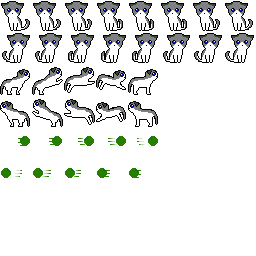
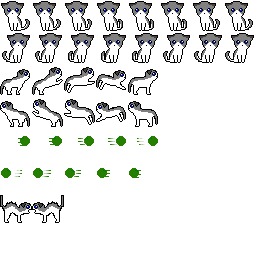
gave cat an attack animation. added 3rd level but need camera to scroll vertically now

Changed region(s): [[0.0, 0.75, 0.25, 0.875]]

diff --git a/videoGame/src/com/biggfoot/objects/Player.java b/videoGame/src/com/biggfoot/objects/Player.java
@@ -30,6 +30,7 @@ public class Player extends GameObject{
 	
 	private Animation playerWalk, playerWalkLeft;	//WALKING
 	private Animation playerIdleRight, playerIdleLeft;	//IDLE
+	private Animation playerHairballRight,playerHairballLeft;
 	//private Animation playerJumpRight, playerJumpLeft; //Jumping
 	
 	
@@ -43,7 +44,8 @@ public class Player extends GameObject{
 		
 		playerIdleRight = new Animation(5, tex.player[8], tex.player[9], tex.player[10], tex.player[11], tex.player[12], tex.player[13], tex.player[14], tex.player[15] );
 		playerIdleLeft = new Animation(5, tex.player[0], tex.player[1], tex.player[2], tex.player[3], tex.player[4], tex.player[5], tex.player[6], tex.player[7]);
-		
+		playerHairballRight = new Animation(5, tex.Cathairball[0]);
+		playerHairballLeft = new Animation(5, tex.Cathairball[1]);
 		//playerJumpRight = new Animation(10, tex.player_jump[0], tex.player_jump[1], tex.player_jump[2], tex.player_jump[3], tex.player_jump[4], tex.player_jump[5], tex.player_jump[6], tex.player_jump[7]);
 		//playerJumpLeft = new Animation(10, tex.player_jump[9], tex.player_jump[10], tex.player_jump[11], tex.player_jump[12], tex.player_jump[13], tex.player_jump[14], tex.player_jump[15]);
 	}
@@ -73,6 +75,9 @@ public class Player extends GameObject{
 		playerIdleRight.runAnimation(); //IDLE
 		playerIdleLeft.runAnimation(); //IDLE
 		
+		playerHairballLeft.runAnimation(); //attacking
+		playerHairballRight.runAnimation(); //attacking
+		
 		//playerJumpRight.runAnimation(); //Jumping
 		//playerJumpLeft.runAnimation(); //Jumping
 
@@ -88,6 +93,7 @@ public class Player extends GameObject{
 					if(getBoundsTop().intersects(tempObject.getBounds())) {	
 						y = tempObject.getY() + 32;	//top of collition needs to be ~ half the dimensions of the block
 						velY = 0;
+						attacking = false;
 					}
 				
 				//BOTTOM
@@ -113,11 +119,13 @@ public class Player extends GameObject{
 				}else if(tempObject.getId() == ObjectId.Flag) {								//****when flag get touched, next level
 					//switch levels
 					if(getBounds().intersects(tempObject.getBounds())) {
+					attacking = false;
 					handler.switchLevel();
 					}
 				}else if (tempObject.getId() == ObjectId.EvilHands) {
 					//reset level
 					if(getBounds().intersects(tempObject.getBounds())) {
+					attacking = false;
 					handler.restartLevel();
 					}
 				}
@@ -130,6 +138,15 @@ public class Player extends GameObject{
 
 	public void render(Graphics g) {	//render out a blue square with dimension above
 		g.setColor(Color.blue);
+		
+		//Attacking
+		if(attacking) {
+			if(facing == 1)
+				g.drawImage(tex.Cathairball[0],  (int)x,  (int)y,  50,  50,  null); //jump right
+			else if(facing == -1)
+				g.drawImage(tex.Cathairball[1],  (int)x,  (int)y,  50,  50,  null);	//jump left
+			
+		}else {
 		
 		//JUMPING
 		if(jumping) {
@@ -152,6 +169,7 @@ public class Player extends GameObject{
 				else if( facing == -1)
 					playerIdleLeft.drawAnimation(g,  (int)x,  (int)y, 50, 50);	//walking left	//standing left
 			}
+		}
 		}
 		
 		// g.fillRect((int)x, (int)y, (int)width, (int)height);  // this was for when the player was a rectange

diff --git a/videoGame/src/com/biggfoot/framework/Texture.java b/videoGame/src/com/biggfoot/framework/Texture.java
@@ -16,9 +16,11 @@ public class Texture {
 	public BufferedImage[] block = new BufferedImage[2]; //grass and dirt for now
 	public BufferedImage[] player = new BufferedImage[16]; //for player walking images
 	public BufferedImage[] player_jump = new BufferedImage[10]; //for player jumping
-	public BufferedImage[] flag = new BufferedImage[1]; //for player jumping
+	public BufferedImage[] flag = new BufferedImage[1]; //for end of level objective
 	public BufferedImage[] hairball = new BufferedImage[10]; //for player projectile
 	public BufferedImage[] hand_grab = new BufferedImage[5]; //for player projectile
+	public BufferedImage[] Cathairball = new BufferedImage[2]; //for player hairball
+
 	
 	public Texture() {
 		
@@ -94,13 +96,17 @@ public class Texture {
 		hairball[3] = ps.grabImage(4,5,32,32);
 		hairball[4] = ps.grabImage(5,5,32,32);
 		
-		
 		//HairBall Left
 		hairball[5] = ps.grabImage(1,6,32,32);
 		hairball[6] = ps.grabImage(2,6,32,32);
 		hairball[7] = ps.grabImage(3,6,32,32);
 		hairball[8] = ps.grabImage(4,6,32,32);
 		hairball[9] = ps.grabImage(5,6,32,32);
+
+		//CatHairBall Right
+		Cathairball[0] = ps.grabImage(1,7,32,32);
+		//CatHairBall Left
+		Cathairball[1] = ps.grabImage(2,7,32,32);
 
 		
 

diff --git a/videoGame/src/com/biggfoot/window/Handler.java b/videoGame/src/com/biggfoot/window/Handler.java
@@ -22,13 +22,15 @@ public class Handler {
 	
 	private BufferedImage level1 = null;
 	private BufferedImage level2 = null;
+	private BufferedImage level3 = null;
 	
 	public Handler(Camera cam) {
 		this.cam=cam;
 		
 		BufferedImageLoader loader = new BufferedImageLoader();
-		level1 = loader.loadImage("/level.png"); //loading the level2
+		level1 = loader.loadImage("/level.png"); //loading the level1
 		level2 = loader.loadImage("/level2.png"); //loading the level2
+		level3 = loader.loadImage("/level3.png"); //loading the level3
 	}
 	
 	public void tick() {
@@ -85,6 +87,9 @@ public class Handler {
 			case 2:
 				LoadImageLevel(level2);
 				break;
+			case 3:
+				LoadImageLevel(level3);
+				break;
 		}
 	}
 	
@@ -97,9 +102,9 @@ public class Handler {
 			case 1:
 				LoadImageLevel(level2);
 				break;
-//			case 2:
-//				LoadImageLevel(level3);
-//				break;
+			case 2:
+				LoadImageLevel(level3);
+				break;
 		}
 		Game.LEVEL++;	//increase level after beating each
 	}

diff --git a/videoGame/src/com/biggfoot/framework/MouseInput.java b/videoGame/src/com/biggfoot/framework/MouseInput.java
@@ -32,10 +32,14 @@ public class MouseInput extends MouseAdapter {
 					if (tempPlayer != null) {
 						handler.addObject(new Bullet(tempPlayer.getX() + 0, tempPlayer.getY() + 10, ObjectId.Bullet,
 								tempPlayer.getFacing() * 10));
+						tempPlayer.setAttacking(true);
 					}
 				}
 			}
 		}
+		
+		
+		
 //		if (SwingUtilities.isRightMouseButton(e)) {
 //
 //			for (int i = 0; i < handler.object.size(); i++) {
@@ -49,6 +53,12 @@ public class MouseInput extends MouseAdapter {
 //				}
 //			}
 //		}
+	}
+	public void mouseReleased(MouseEvent e) {
+		for (int i = 0; i < handler.object.size(); i++) {
+		GameObject tempPlayer = handler.object.get(i);
+		tempPlayer.setAttacking(false);
+		}
 	}
 
 }

diff --git a/videoGame/src/com/biggfoot/framework/GameObject.java b/videoGame/src/com/biggfoot/framework/GameObject.java
@@ -11,6 +11,7 @@ public abstract class GameObject {
 	protected float velX = 0, velY = 0;
 	protected boolean falling = true;
 	protected boolean jumping = false;
+	protected boolean attacking = false;
 	protected int facing = 1;
 	
 	public GameObject(float x, float y, ObjectId id) {
@@ -69,6 +70,13 @@ public abstract class GameObject {
 	
 	public int getFacing() {
 		return facing;
+	}
+	
+	public void setAttacking(boolean attacking) {
+		this.attacking = attacking;
+	}
+	public boolean isAttacking() {
+		return attacking;
 	}
 
 	public ObjectId getId() {
